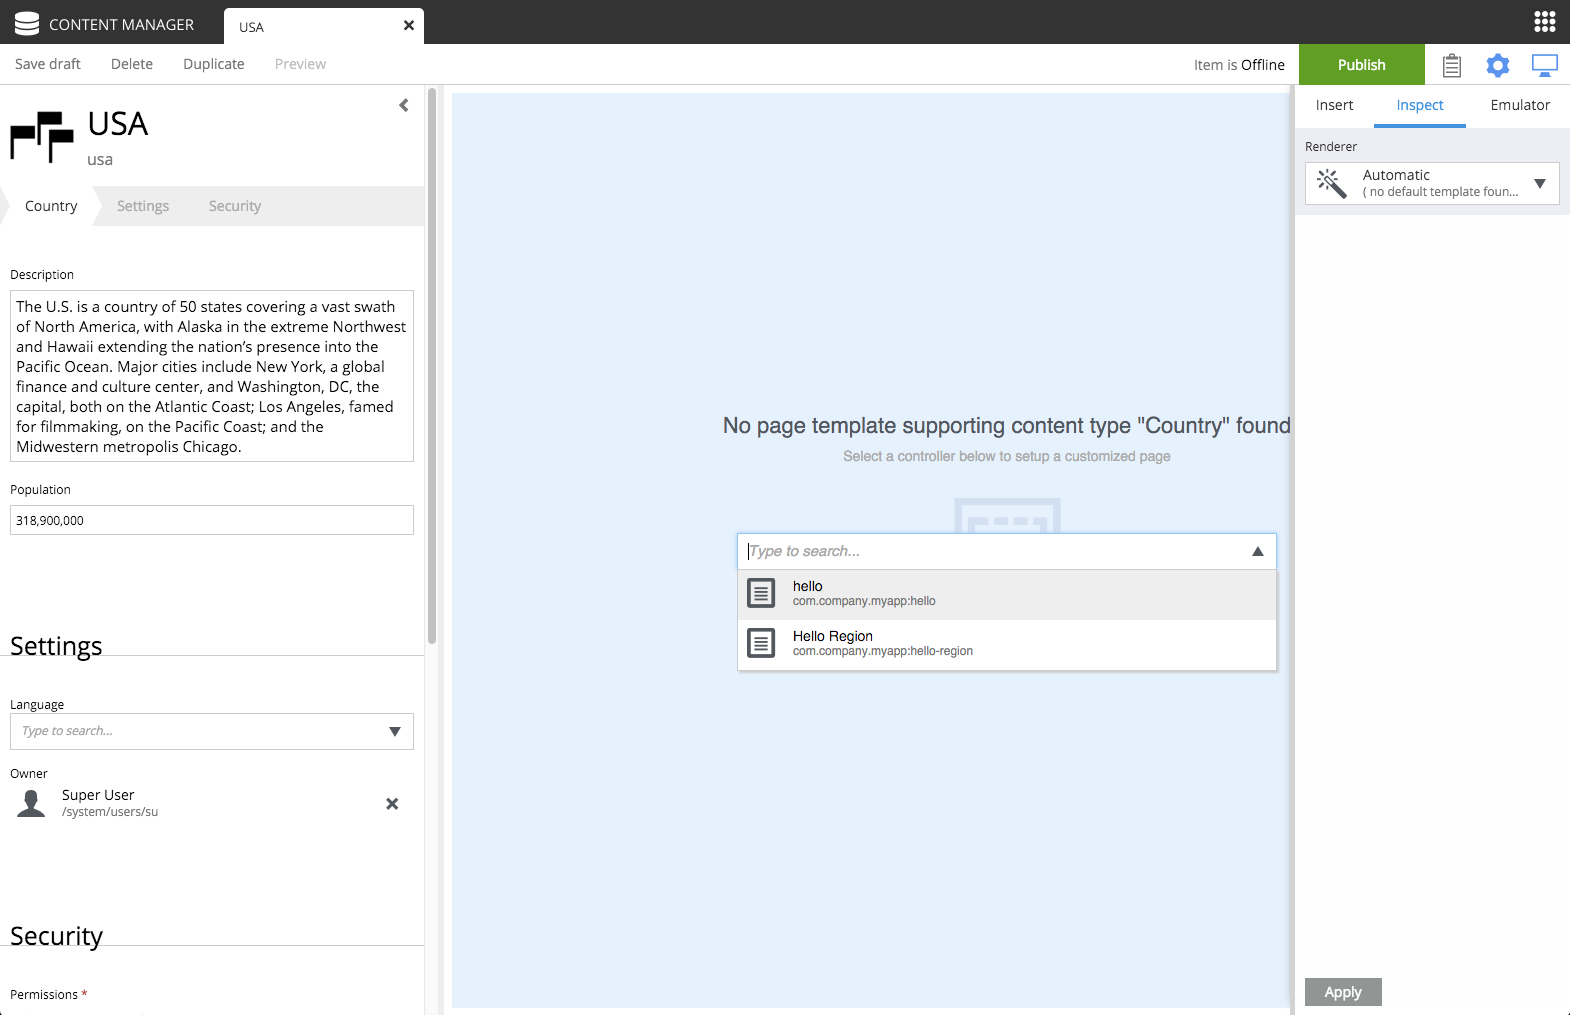
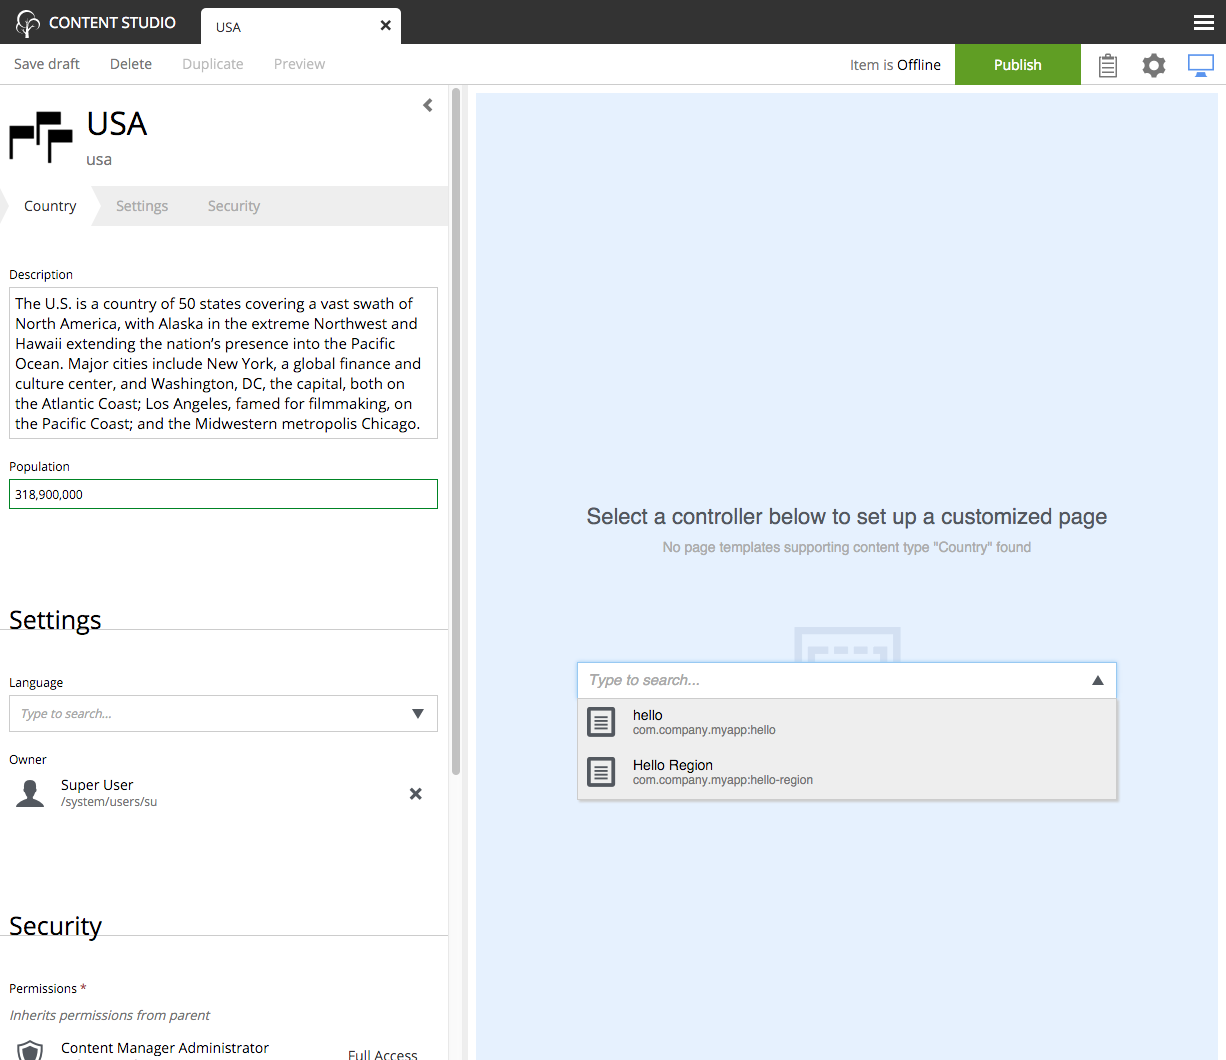
Update my first app tutorial for 6.4. And other small fixes. (cherry picked from commit f20adf5)

diff --git a/doc/tutorials/my-first-app/code/country-part/country1.js b/doc/tutorials/my-first-app/code/country-part/country1.js
@@ -4,10 +4,10 @@ var thymeleaf = require('/lib/xp/thymeleaf'); // Import the Thymeleaf rendering 
 // Handle the GET request
 exports.get = function(req) {
 
-    // Get the country content and extract the needed data from the JSON
+    // Get the country content as a JSON object
     var content = portal.getContent();
 
-    // Prepare the model object with the needed data extracted from the content
+    // Prepare the model object with the needed data from the content
     var model = {
         name: content.displayName,
         description: content.data.description,

diff --git a/doc/tutorials/my-first-app/code/city-part/city-list.js b/doc/tutorials/my-first-app/code/city-part/city-list.js
@@ -22,7 +22,8 @@ exports.get = function (req) {
         contentTypes: [
             app.name + ':city'
         ],
-        "query": "_path LIKE '/content" + countryPath + "/*'",
+        query: "_path LIKE '/content" + countryPath + "/*'",
+        sort: "modifiedTime DESC"
     });
 
     var hits = result.hits;

diff --git a/doc/tutorials/my-first-app/page-templates.rst b/doc/tutorials/my-first-app/page-templates.rst
@@ -3,31 +3,34 @@ The Country Page Template
 
 .. |cogicon| image:: images/icon-cog.png
 .. |monitoricon| image:: images/icon-monitor.png
+.. |templatesicon| image:: images/icon-templates.png
+.. |particon| image:: images/icon-part.png
 
-With our current solution, sadly, we'll have to create a new page for every country we add.
-As this is not a very effective way of working with large data sets, we will create a page template to simplify the process.
+With our current solution, sadly, we would have to create a new page for every country we add.
+As this is not a very effective way of working with large data sets, we will create a page template that will automatically render all country content.
 
-1. Select the Templates item located below the "Hello World" site in the content pane.
-2. Click "New" and select "Page Template".
-3. Fill in the form as follows:
+#. Select the Templates item |templatesicon| located below the "Hello World" site in the content pane.
+#. Click "New" and select "Page Template".
+#. Fill in the form as follows:
 
   * Display Name: "Country"
   * Supports: "Country" (selected from the list of content types)
 
-4. If the blue Page Editor panel is not displayed on the right, click the |monitoricon| button in the toolbar. Then select the "Hello
-   Region" controller with the dropdown.
-5. Open the Inspection Panel (activated from the cog button |cogicon| in the toolbar).
-6. Under the "Insert" tab, drag and drop a "Part" into the empty region.
-7. Select the "country" part from the dropdown. (You may need to close the Inspection Panel to see the dropdown.)
-8. Click "Save draft" in the toolbar and close the tab.
+4. If the blue Page Editor panel is not displayed on the right, click the |monitoricon| button in the toolbar.
+#. Select the "Hello Region" controller with the dropdown in the blue Page Editor panel.
+#. Open the Inspection Panel (activated from the cog button |cogicon| in the toolbar).
+#. Under the "Insert" tab, drag and drop a "Part" |particon| into the empty region where it says "Drop here".
+#. Select the "country" part from the dropdown.
+#. Click "Save draft" in the toolbar and close the tab.
 
 Every "Country" content you create will now use this template by default.
 
 .. TIP:: The "Support" property is the key. A page template will support rendering of the content types specified here.
 
-Try this out by creating a few new countries in your site. Make sure you select the "Hello World" site before clicking "New" in the
-toolbar. Every content you create will be a child of the content that was selected in the content pane.
-
+Try this out by creating a few new countries in your site. Be aware that every content you create will be a child of the content that was
+selected in the content pane, so make sure you select the "Hello World" site before clicking "New" in the toolbar. Or get in the habit of
+right-clicking the parent content and selecting "New" from the context menu. This way you will never accidentally create a content in the
+wrong place.
 
 Extra task
 ----------
@@ -37,9 +40,12 @@ Extra task
 You might remember that your favorite country was "hardcoded" - so let's change it to use templates as well.
 
 #. In the Content pane, double click the country content to edit it.
-#. Click on the page in the Page Editor. A context menu should appear with the name of the country. If the word "country" appears in the box
-   then you have selected the part. In that case, click the "Parent" button twice.
-#. Open the Inspection Panel (cog button |cogicon|) and select "Automatic" from under the "Renderer" label. (It's under the "Inspect" tab)
+#. Open the Inspection Panel |cogicon| and select the "Inspect" tab if it's not already selected.
+#. You should see a label for "Rnederer" with "Custom" selected and a label for "Page controller" with "Hello Region" selected. If you see
+   a label for "Part" instead then click on the page above the country name to select the page. Then click the "Inspect" tab. (See image below)
+#. Now select "Automatic" from under the "Renderer" label in the "Inspect" tab.
 #. Save draft and close the tab.
+
+.. image:: images/page-template-automatic.png
 
 You can select another `Page template` at any time, or even customize the presentation of a single content.

diff --git a/doc/tutorials/my-first-app/pro-tips.rst b/doc/tutorials/my-first-app/pro-tips.rst
@@ -1,6 +1,20 @@
 Some Pro Tips
 =============
 
+Adding libraries to your project
+--------------------------------
+
+Why re-invent the wheel for each app you make? Reusable code can be created in libraries and added to any XP project. Some essential tools
+can be found in the `Util lib <https://github.com/enonic/lib-util>`_, `Menu lib <https://github.com/enonic/lib-menu>`_,
+`RECAPTCHA <https://github.com/enonic/lib-recaptcha>`_ and `Landing page <https://github.com/enonic/lib-landingpage>`_ libraries.
+
+Adding apps to your site
+------------------------
+
+A website can be created from a single app. But a site's functionality can be extended by adding other pre-made apps. SEO Meta Fields,
+Disqus comments and Google Analytics are just a few of the many apps that can instantly add features to your site. See what's available at
+the `Enonic Marketplace <http://marketplace.enonic.com/applications>`_.
+
 Handling Multiple projects
 --------------------------
 
@@ -14,8 +28,8 @@ The folder structure for such a setup would look something like this::
 
 An actual implementation with projects called my-first-app and company-site would look like this::
 
-  /Users/mla/development/software/enonic-xp-5.3.0
-  /Users/mla/development/software/enonic-xp-6.0.0
+  /Users/mla/development/software/enonic-xp-6.3.1
+  /Users/mla/development/software/enonic-xp-6.4.0
   /Users/mla/development/xp-homes/my-first-app/home
   /Users/mla/development/xp-homes/company-site/home
   /Users/mla/development/projects/my-first-app/...
@@ -27,7 +41,6 @@ the Enonic XP version that the project was created for.
 
 Check this `Enonic Labs article <http://labs.enonic.com/articles/working-with-multiple-xp-projects>`_ for a more in-depth process. It also
 includes some bash scripting that will help with setting and changing $XP_HOME and starting and stopping XP.
-
 
 Logging JSON objects
 --------------------
@@ -54,10 +67,17 @@ Call the log function in any controller like the example below and then check th
   var content = portal.getContent();
   util.log(content);
 
+This logging function and many other useful functions are included in the `Util library <https://github.com/enonic/lib-util>`_.
 
-Using Gradle continuous-mode
-----------------------------
+Continuous build with Dev Mode or Gradle
+----------------------------------------
 
-It can be quite time consuming to frequently switch to the terminal to redeploy an app during development. Try using ``./gradlew -t deploy``
-in the terminal (from the project root) to **automatically redeploy** your app every time a change to a file is detected. Gradle 2.7 or
-newer must be used and the $XP_HOME environment variable must be set in the terminal window for this to work.
+It can be quite time consuming to frequently use the terminal to redeploy an app during development. Starting Enonic XP in dev-mode
+will make most changes to your app code visible immediately on localhost. See the :ref:`gradle_dev_mode` page for more information about
+its capabilities and limitations.
+
+Another option is to use  ``./gradlew -t deploy`` in the terminal from the project root. This will automatically build and redeploy your app
+every time changes to a file are detected. This method is slower than dev-mode, but it handles some situations that dev-mode doesn't. Gradle
+2.7 or newer is required.
+
+Both dev-mode and Gradle continuous-mode require the $XP_HOME environment variable to be set in the terminal window.

diff --git a/doc/tutorials/my-first-app/hello-world-site.rst b/doc/tutorials/my-first-app/hello-world-site.rst
@@ -2,6 +2,7 @@ Create the Hello World Site
 ===========================
 
 .. |monitoricon| image:: images/icon-monitor.png
+.. |menuicon| image:: images/icon-menu.png
 
 Our next goal is to set up a "Hello World" site in Content Studio,
 but first we must add some initial configuration to our project.
@@ -27,8 +28,8 @@ Page components are the most basic building blocks of websites in Enonic XP (see
 controller and optionally an XML descriptor and an HTML view. This first example does not need a descriptor file.
 
 A page controller (see :ref:`page`) is a JavaScript file that handles requests such as GET and POST.
-Controllers usually pass JavaScript objects with data to be dynamically rendered in an HTML view. No data is passed in the example below,
-but the view file is specified and rendered as static HTML.
+Controllers usually pass data in the form of a JavaScript object to be dynamically rendered in an HTML view. No data is passed in the
+example below, but the view file is specified and rendered as static HTML.
 
 1. Create a folder called ``hello`` inside the ``site/pages`` directory.
 
@@ -53,15 +54,15 @@ The `view`  below is a simple HTML file. This file will be updated later to hand
 Create Site
 -----------
 
-Now that the files are in place, we can create the site using Content Studio.
-Switch between different tools using top right icon, it will open the Launcher panel.
+Now that the files are in place, we can create the site in a browser using the Content Studio admin tool.
+Switch between different tools by clicking the menu icon |menuicon| (top right) to open the Launcher panel.
 
-#. In your browser, navigate to the Content Studio tool. (Use menu icon at top right)
+#. In your browser, navigate to the Content Studio tool. (Use the menu icon at the top right)
 #. Click "New" and select "Site" from the list of content types (Opens a tab for editing the new site).
 #. Fill in the form with Display Name: "Hello World".
 #. Select your "MyApp" application in the "Applications" dropdown.
-#. Open the Page Editor with this button |monitoricon| in the toolbar.
-#. Use the dropdown in the blue area that just appeared to select the "hello" page.
+#. If you don't see a blue area on the right of the page then click this button |monitoricon| in the toolbar to open the Page Editor.
+#. Use the dropdown in the Page Editor (blue area) to select the "hello" page.
 #. Click the "Save draft" button in the toolbar (top-left).
 #. Now close the "Hello World" site editor tab to see the content pane.
 

diff --git a/doc/tutorials/my-first-app/hello-geo-world.rst b/doc/tutorials/my-first-app/hello-geo-world.rst
@@ -11,7 +11,7 @@ The next steps will create a content type for adding cities with location coordi
 
 1. Create a folder called `city` inside the project's ``site/content-types`` folder.
 
-2. Add the content type file below to your project:
+2. Add the content type file below to your project. Because the contet type's folder is named "city" the file must be named "city.xml".
 
 .. literalinclude:: code/content-types/city1.xml
   :language: xml
@@ -30,7 +30,7 @@ We need a `part component` to display the city data. It will list the cities and
 
 1. Create a folder called `city-list` inside the project's ``site/parts`` folder.
 
-2. Add the part descriptor file.
+2. Add the part descriptor file. It must be named city-list.xml.
 
 .. literalinclude:: code/city-part/city-list.xml
   :language: xml
@@ -38,7 +38,7 @@ We need a `part component` to display the city data. It will list the cities and
 
 The part descriptor above has a configuration similar to those found in content types.
 
-3. Add the part controller file.
+3. Add the part controller file. It must be named city-list.js.
 
 .. literalinclude:: code/city-part/city-list.js
   :language: javascript
@@ -46,12 +46,12 @@ The part descriptor above has a configuration similar to those found in content 
 
 This controller uses :ref:`page_contributions` to put the Google Maps JavaScript into the head of the document.
 
-4. Add the part view file.
+4. Add the part view file. It must be named city-list.html to match the "resolve" function in the controller.
 
 .. literalinclude:: code/city-part/city-list.html
   :language: html
   :caption: City list part view - site/parts/city-list/city-list.html
 
-5. Build and deploy your project one final time with ``./gradlew deploy``.
+5. If you didn't start XP in :ref:`gradle_dev_mode` then build and deploy your project one final time with ``./gradlew deploy``.
 
 All of the project's files are now complete. The rest of the steps will be performed in the Content Studio interface.

diff --git a/doc/tutorials/my-first-app/add-favorite-country.rst b/doc/tutorials/my-first-app/add-favorite-country.rst
@@ -3,6 +3,7 @@ Add your favorite country
 
 .. |cogicon| image:: images/icon-cog.png
 .. |monitoricon| image:: images/icon-monitor.png
+.. |particon| image:: images/icon-part.png
 
 Now that the "Country" content type is installed (and we have a part to display them), we can create
 new countries using the Content Studio interface.
@@ -16,16 +17,16 @@ Similar to the site, we must also configure a view for the country
 4. In the toolbar, in the top right corner of the page, click the button with the monitor icon |monitoricon| to activate the Page Editor
    (blue background).
 
-5. Click the cog button |cogicon| to open the Inspection Panel (far right).
-
 .. image:: images/country-content-edit.png
 
-6. In the Page Editor, select "Hello Region" from the template selector dropdown. If the dropdown arrow is not visible, double-click
+
+
+5. In the Page Editor, select "Hello Region" from the template selector dropdown. If the dropdown arrow is not visible, double-click
    inside the option field or start typing "hello world" in it to see the options.
+#. Click the cog button |cogicon| to open the Inspection Panel (far right).
 #. In the Inspection Panel, click the "Insert" tab. This reveals a list of default components that can be placed into regions.
-#. Click and drag a "Part" into the box on the page.
-#. A new dropdown option will appear. Select the "country" part. (You can start typing "country" in the box or you may need to close the
-   Inspection Panel to see the dropdown.)
+#. Click and drag the "Part" |particon| into the box on the page.
+#. A new dropdown option will appear. Select the "country" part.
 #. Save draft and close the content edit tab.
 
 When you click on the country in the content pane, you should see a preview of the rendered page, something like this:

diff --git a/doc/tutorials/my-first-app/create-cities.rst b/doc/tutorials/my-first-app/create-cities.rst
@@ -2,19 +2,21 @@ Create Cities
 =============
 
 .. |cogicon| image:: images/icon-cog.png
+.. |templatesicon| image:: images/icon-templates.png
+.. |particon| image:: images/icon-part.png
 
 Now let's make use of the new city content type and part component. First we need to add the "City list" part to the "Country" page template.
 
-#. Edit the "Country" page template.
+#. Edit the "Country" page template. Find it in the content pane below the templates |templatesicon|
 #. Open the Inspect Panel by clicking the cog button |cogicon| in the toolbar.
-#. Under the Insert tab, click and drag a `Part` to the page region below the "country" part. (This may be a bit tricky because the
+#. Under the Insert tab, click and drag a `Part` |particon| to the page region below the "country" part. (This may be a bit tricky because the
    "country" part is small.)
-#. Select the "City list" part from the dropdown in the box. You may need to close the Inspection Panel to see it.
+#. Select the "City list" part from the dropdown in the box.
 #. Save and close the tab.
 
-Now we need to create a few City contents below the countries. (Sample data is available in the table below.)
+Now we need to create a few City contents under each country. (Sample data is available in the table below.)
 
-#. From the content pane, select a country content that you created earlier. It is important that each city content is created under the
+#. From the content pane, select a country content that you created earlier. It is important that each city content is created under its
    country.
 #. Right-click the country content and select "New". The "Create content" dialogue will open.
 #. Now select "City" from the list of content types.

diff --git a/doc/tutorials/my-first-app/hello-region-page.rst b/doc/tutorials/my-first-app/hello-region-page.rst
@@ -2,9 +2,9 @@
 The Hello Region Page
 =====================
 
-Parts start to make sense when placed into a `region` - regions are "slots" contained within pages or layouts. Pages and layouts may contain multiple regions, and each region must have a unique name.
+Parts start to make sense when placed into a `region`. Regions are "slots" contained within pages or layouts. Pages and layouts may contain multiple regions, and each region must have a unique name.
 
-Let's create a new page component with a single region called "Main" - we will later place the "Country" part into this region.
+Let's create a new page component with a single region called "Main". We will later place the "Country" part into this region.
 
 The benefit of a region (see :ref:`apps-page-regions`) is that a page component can be re-used across multiple different pages by simply adding different parts to them as needed.
 
@@ -29,10 +29,13 @@ the "main" region which was defined in the descriptor XML file.
   :language: html
   :caption: Page view - site/pages/hello-region/hello-region.html
 
-The view file above defines the place on the page where the region will render parts that are dragged and dropped in Live Edit.
+The view file above defines the place on the page where the region will render component parts that are dragged and dropped in the Page Editor.
 
 3. When done - redeploy your app once again!
 
 ::
 
   ./gradlew deploy
+
+
+.. tip:: You can restart XP in :ref:`gradle_dev_mode` and then the app won't have to be redeployed after making changes.

diff --git a/doc/tutorials/my-first-app/initialize-project.rst b/doc/tutorials/my-first-app/initialize-project.rst
@@ -1,16 +1,18 @@
 Initialize project
 ==================
 
-Enonic XP includes the :ref:`toolbox` which can perform several useful operations. The :ref:`init_project` operation will initialize a new application project with the standard structures required  (see :ref:`projects`).
+Enonic XP includes the :ref:`toolbox` which can perform several useful operations. The :ref:`init_project` operation will clone an existing project from a repository source, such as `GitHub <https://github.com>`_. The starter-vanilla project will initialize a new application with the standard structures required (see :ref:`projects`).
 
 #. Create a new folder at a suitable location on your filesystem for the application project files.
-   e.g. ``/Users/<username>/project/myapp`` This will be the project root.
+   e.g. ``/Users/<username>/projects/myapp`` This will be the project root.
 
-#. Go to this folder in the terminal and run the following command:
+#. Change directory in the terminal to this project root.
+
+#. Run the following command, replacing [$XP_INSTALL] with the path to your unzipped XP installation:
 
 ::
 
-[$XP_INSTALL]/toolbox/toolbox.sh init-project -n com.company.myapp -r starter-base
+[$XP_INSTALL]/toolbox/toolbox.sh init-project -n com.company.myapp -r starter-vanilla -c 1.0.0
 
 .. tip::
 

diff --git a/doc/tutorials/my-first-app/country-list.rst b/doc/tutorials/my-first-app/country-list.rst
@@ -3,16 +3,16 @@ The Country List Part
 
 Each country content can now be viewed on a page. But the site home page is still a bit empty. This section will have you alter the "hello" page controller and view files to list all of the country contents.
 
-1. Edit the "hello" page controller file ``site/pages/hello/hello.js`` and make the following changes:
+1. Edit the "hello" page controller ``site/pages/hello/hello.js`` and replace the file's contents with the code below:
 
 .. literalinclude:: code/page-list/hello.js
   :language: javascript
 
-2. Now edit the "hello" view file ``site/pages/hello/hello.html`` and make the following changes:
+2. Now edit the "hello" view file ``site/pages/hello/hello.html`` and replace its contents with the code below:
 
 .. literalinclude:: code/page-list/hello.html
   :language: html
 
-3. Redeploy the app from the command line with ``./gradlew deploy``.
+3. If you didn't start XP in :ref:`gradle_dev_mode` then redeploy the app from the command line with ``./gradlew deploy``.
 
 Each country that you created is now listed on the home page and the names are also links to the individual content pages.

diff --git a/doc/developer/site/page/index.rst b/doc/developer/site/page/index.rst
@@ -108,7 +108,7 @@ More on how to use Thymeleaf can be found in
 Regions
 -------
 
-To be able to add components like images, component parts, or text to our page via the live edit drag and drop
+To be able to add components like images, component parts, or text to our page via the Page Editor drag and drop
 interface, we need to create at least one region. Regions can be declared in the page descriptor.
 Each region will be referenced by name.
 
@@ -120,11 +120,11 @@ You will also need to handle regions in the controller.
 .. literalinclude:: code/controller-4.js
    :language: javascript
 
-To make live-edit understand that an element is a region, we need an attribute
+To make the Page Editor understand that an element is a region, we need an attribute
 called ``data-portal-component-type`` with the value ``region`` in our HTML.
 
 .. literalinclude:: code/thymeleaf-3.html
    :language: html
 
-We can now use the live edit drag and drop interface to drag components into
+We can now use the Page Editor drag and drop interface to drag components into
 our page.
